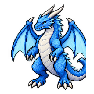
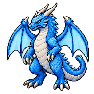
Refine dragon appearance and use frames 8 to 10 for claw recovery

diff --git a/design/enemies/dragon_frost/attack_claw/PROMPT.md b/design/enemies/dragon_frost/attack_claw/PROMPT.md
@@ -1,1 +1,1 @@
-Built-in image_gen. Base: ../attack/dragon_frost_1.png. Generate entire coherent ten-frame5x2 transparent sprite sheet of same blue frost dragon, small blue eyes and original detailed pixel-art. Frame1 normal,2 raising,3 raising,4 highest raising,5 downstroke begins,6 downstroke across chest,7 lowest downstroke,8 return,9 return,10 normal. Both forearms visible throughout, including frame7 continuous shoulder-elbow-wrist-claws. Whole character regenerated to match original reference face and proportions; front forearm attacks; grounded hindfeet, stable wings and tail. No fire, weapons, slash effects or pasted body parts. Export ten94x94 transparent PNGs in numeric order. Correction: planted feet baseline y91 in every frame, stable hips and head, original narrow blue-eyed face, frame10 equals frame1. Preview frame delays(ms): 180,120,120,140,80,80,80,120,120,180.
+Built-in image_gen. Base: ../attack/dragon_frost_1.png. Generate entire coherent ten-frame5x2 transparent sprite sheet of same blue frost dragon, small blue eyes and original detailed pixel-art. Frame1 normal,2 raising,3 raising,4 highest raising,5 downstroke begins,6 downstroke across chest,7 lowest downstroke,8 return early,9 return middle,10 return late near normal. Both forearms visible throughout, including frame7 continuous shoulder-elbow-wrist-claws. Whole character regenerated to match original reference face and proportions; front forearm attacks; grounded hindfeet, stable wings and tail. No fire, weapons, slash effects or pasted body parts. Export ten94x94 transparent PNGs in numeric order. Correction: planted feet baseline y91 in every frame, stable hips and head, original narrow blue-eyed face, frame10 is distinct late recovery, frame1 completes return. Preview frame delays(ms): 180,120,120,140,80,80,80,120,120,120.
